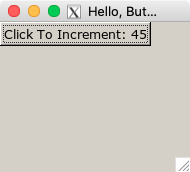
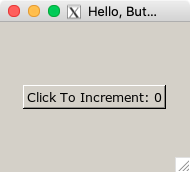
Support `Symbol`-style `:opts` in kwargs of controls (e.g. `button(Click, opts: [:frame_raised, :frame_thick, :layout_center_x, :layout_center_y])`)

Changed region(s): [[0.0, 0.1163, 0.8158, 0.2907], [0.1053, 0.4942, 0.8947, 0.6395]]

diff --git a/lib/glimmer/fx/control_proxy.rb b/lib/glimmer/fx/control_proxy.rb
@@ -165,9 +165,7 @@ module Glimmer
       
       def window_proxy
         found_proxy = self
-        until found_proxy.nil? || found_proxy.is_a?(WindowProxy)
-          found_proxy = found_proxy.parent_proxy
-        end
+        found_proxy = found_proxy.parent_proxy until found_proxy.nil? || found_proxy.is_a?(WindowProxy)
         found_proxy
       end
 
@@ -208,9 +206,16 @@ module Glimmer
       end
       
       def normalize_args(args)
-        args.map do |arg|
+        result_args = args.map do |arg|
           arg.is_a?(ControlProxy) ? arg.fx : arg
         end
+        kwargs = result_args.last.is_a?(Hash) ? result_args.pop : {}
+        opts = [kwargs.delete(:opts) || kwargs.delete('opts')].flatten.compact
+        opts_value = opts.map do |opt|
+          ::Fox.const_get(opt.upcase.to_sym)
+        end.reduce(:|)
+        kwargs = kwargs.merge(opts: opts_value) unless opts.empty?
+        kwargs.empty? ? result_args : result_args + [kwargs]
       end
     end
   end

diff --git a/samples/hello/hello_button.rb b/samples/hello/hello_button.rb
@@ -10,7 +10,7 @@ class HelloButton
   def launch
     app('HelloButton', 'Glimmer') {
       main_window('Hello, Button!') {
-        @button = button("Click To Increment: 0") {
+        @button = button("Click To Increment: 0", opts: [:frame_raised, :frame_thick, :layout_center_x, :layout_center_y]) {
           on(:command) do
             @count += 1
             @button.text = "Click To Increment: #{@count}"

diff --git a/samples/hello/hello_world.rb b/samples/hello/hello_world.rb
@@ -4,6 +4,6 @@ include Glimmer
 
 app('HelloWorld', 'Glimmer') {
   main_window('Hello, World!') {
-    label('Hello, World!')
+    label('Hello, World!', opts: [:layout_center_x, :layout_center_y])
   }
 }.run

diff --git a/README.md b/README.md
@@ -1,4 +1,4 @@
-# [<img src="https://raw.githubusercontent.com/AndyObtiva/glimmer/master/images/glimmer-logo-hi-res.png" height=85 />](https://github.com/AndyObtiva/glimmer) Glimmer DSL for FX 0.0.1
+# [<img src="https://raw.githubusercontent.com/AndyObtiva/glimmer/master/images/glimmer-logo-hi-res.png" height=85 />](https://github.com/AndyObtiva/glimmer) Glimmer DSL for FX 0.0.2
 ## FOX Toolkit Ruby Desktop Development GUI Library
 [![Gem Version](https://badge.fury.io/rb/glimmer-dsl-fx.svg)](http://badge.fury.io/rb/glimmer-dsl-fx)
 [![Join the chat at https://gitter.im/AndyObtiva/glimmer](https://badges.gitter.im/AndyObtiva/glimmer.svg)](https://gitter.im/AndyObtiva/glimmer?utm_source=badge&utm_medium=badge&utm_campaign=pr-badge&utm_content=badge)
@@ -21,7 +21,7 @@ Hello, World!
 ```ruby
 app('HelloWorld', 'Glimmer') {
   main_window('Hello, World!') {
-    label('Hello, World!')
+    label('Hello, World!', opts: [:layout_center_x, :layout_center_y])
   }
 }.run
 ```
@@ -76,7 +76,7 @@ gem install glimmer-dsl-fx
 
 Add the following to `Gemfile`:
 ```
-gem 'glimmer-dsl-fx', '~> 0.0.1'
+gem 'glimmer-dsl-fx', '~> 0.0.2'
 ```
 
 And, then run:
@@ -91,7 +91,7 @@ Require the library and mixin the `Glimmer` module to utilize the Glimmer GUI DS
 ```ruby
 app('HelloWorld', 'Glimmer') {
   main_window('Hello, World!') {
-    label('Hello, World!')
+    label('Hello, World!', opts: [:layout_center_x, :layout_center_y])
   }
 }.run
 ```
@@ -107,7 +107,7 @@ class SomeGlimmerApplication
   def launch
     app('HelloWorld', 'Glimmer') {
       main_window('Hello, World!') {
-        label('Hello, World!')
+        label('Hello, World!', opts: [:layout_center_x, :layout_center_y])
       }
     }.run
   end
@@ -256,7 +256,7 @@ class HelloButton
   def launch
     app('HelloButton', 'Glimmer') {
       main_window('Hello, Button!') {
-        @button = button('Click To Increment: 0') {
+        @button = button('Click To Increment: 0', opts: [:frame_raised, :frame_thick, :layout_center_x, :layout_center_y]) {
           on(:command) do
             @counter.count += 1
           end
@@ -289,7 +289,7 @@ girb
 
 This gives you `irb` with the `glimmer-dsl-fx` gem loaded and the `Glimmer` module mixed into the main object for easy experimentation with GUI.
 
-Note: GIRB for Glimmer DSL for FX 0.0.1 is still very rudimentary and does not support entering code for multiple applications, yet only one. You would have to exit and re-enter after each application entered.
+Note: GIRB for Glimmer DSL for FX 0.0.2 is still very rudimentary and does not support entering code for multiple applications, yet only one. You would have to exit and re-enter after each application entered.
 
 Gotcha: On the Mac, when you close a window opened in `girb`, it remains open until you enter `exit`.
 
@@ -364,7 +364,7 @@ class HelloButton
   def launch
     app('HelloButton', 'Glimmer') {
       main_window('Hello, Button!') {
-        @button = button("Click To Increment: 0") {
+        @button = button("Click To Increment: 0", opts: [:frame_raised, :frame_thick, :layout_center_x, :layout_center_y]) {
           on(:command) do
             @count += 1
             @button.text = "Click To Increment: #{@count}"

diff --git a/TODO.md b/TODO.md
@@ -4,3 +4,4 @@
 - Make location of `'/Applications/Utilities/XQuartz.app'` configurable for use in App::run on Mac
 - Support re-running App if recreating `app` a second time
 - Support updating App attributes if recreating `app` a second time
+- Have `Glimmer::FX` act as a proxy for `Fox` in grabbing constants via `Symbol`s (e.g. `Glimmer::FX.constant(:frame_raised)` returns `Fox::FRAME_RAISED`; and `Glimmer::FX[:frame_raised, :layout_center_x, :layout_center_y]` returns bit-or'ed value)

diff --git a/CHANGELOG.md b/CHANGELOG.md
@@ -1,5 +1,9 @@
 # Change Log
 
+## 0.0.2
+
+- Support `Symbol`-style `:opts` in kwargs of controls (e.g. `button('Click', opts: [:frame_raised, :frame_thick, :layout_center_x, :layout_center_y])`)
+
 ## 0.0.1
 
 - Initial version of Glimmer DSL for FX
